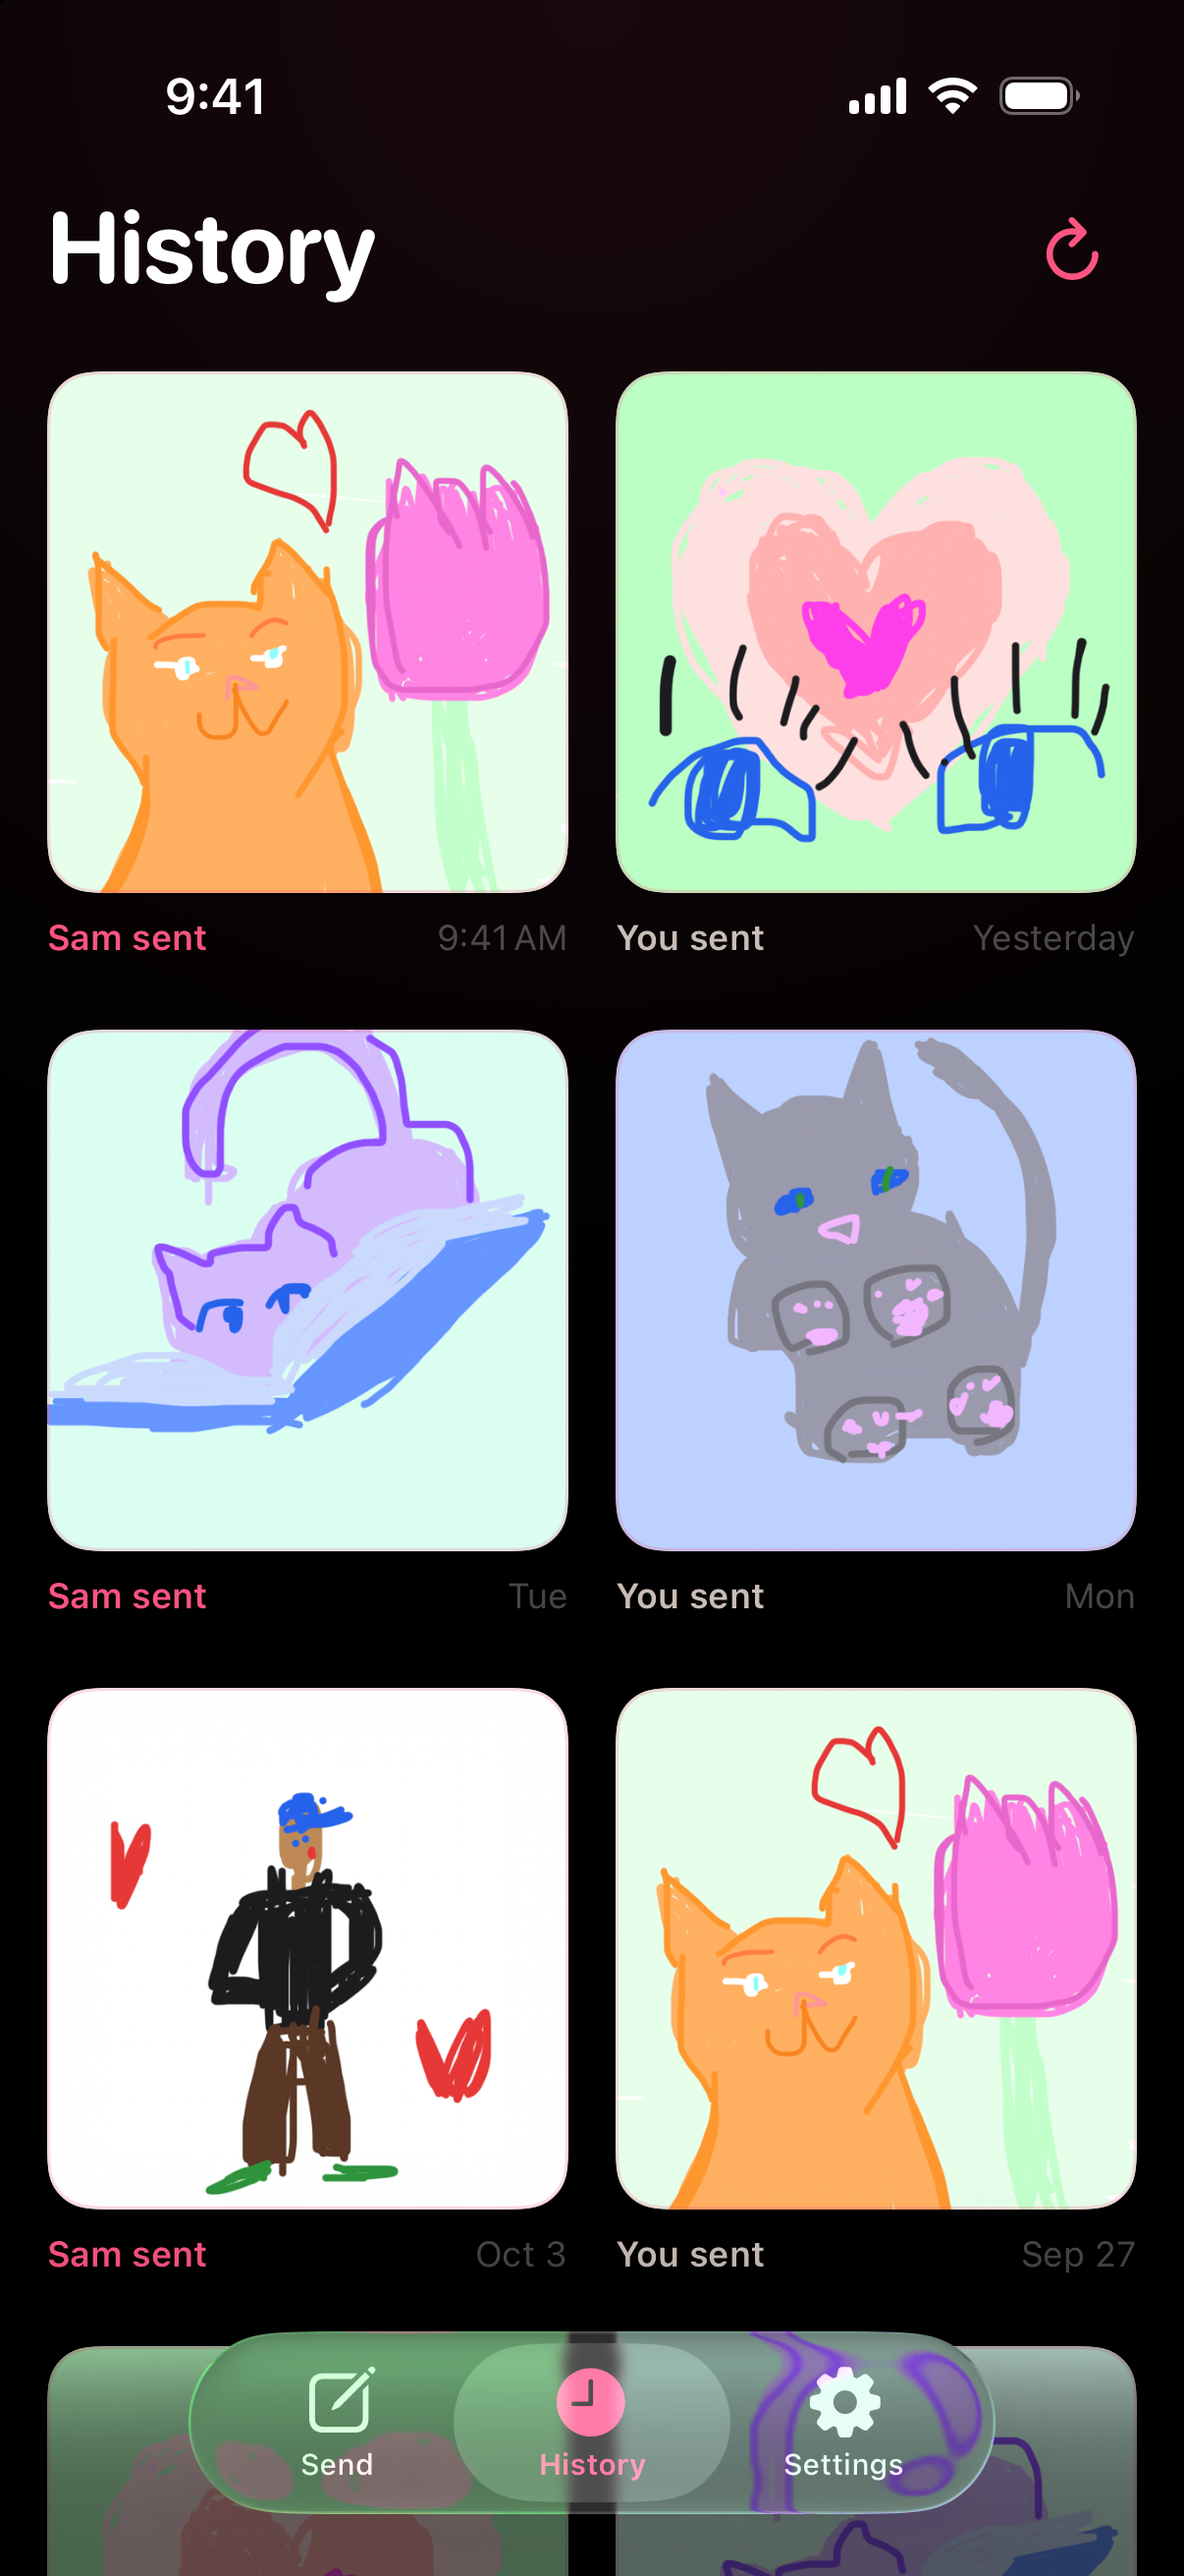
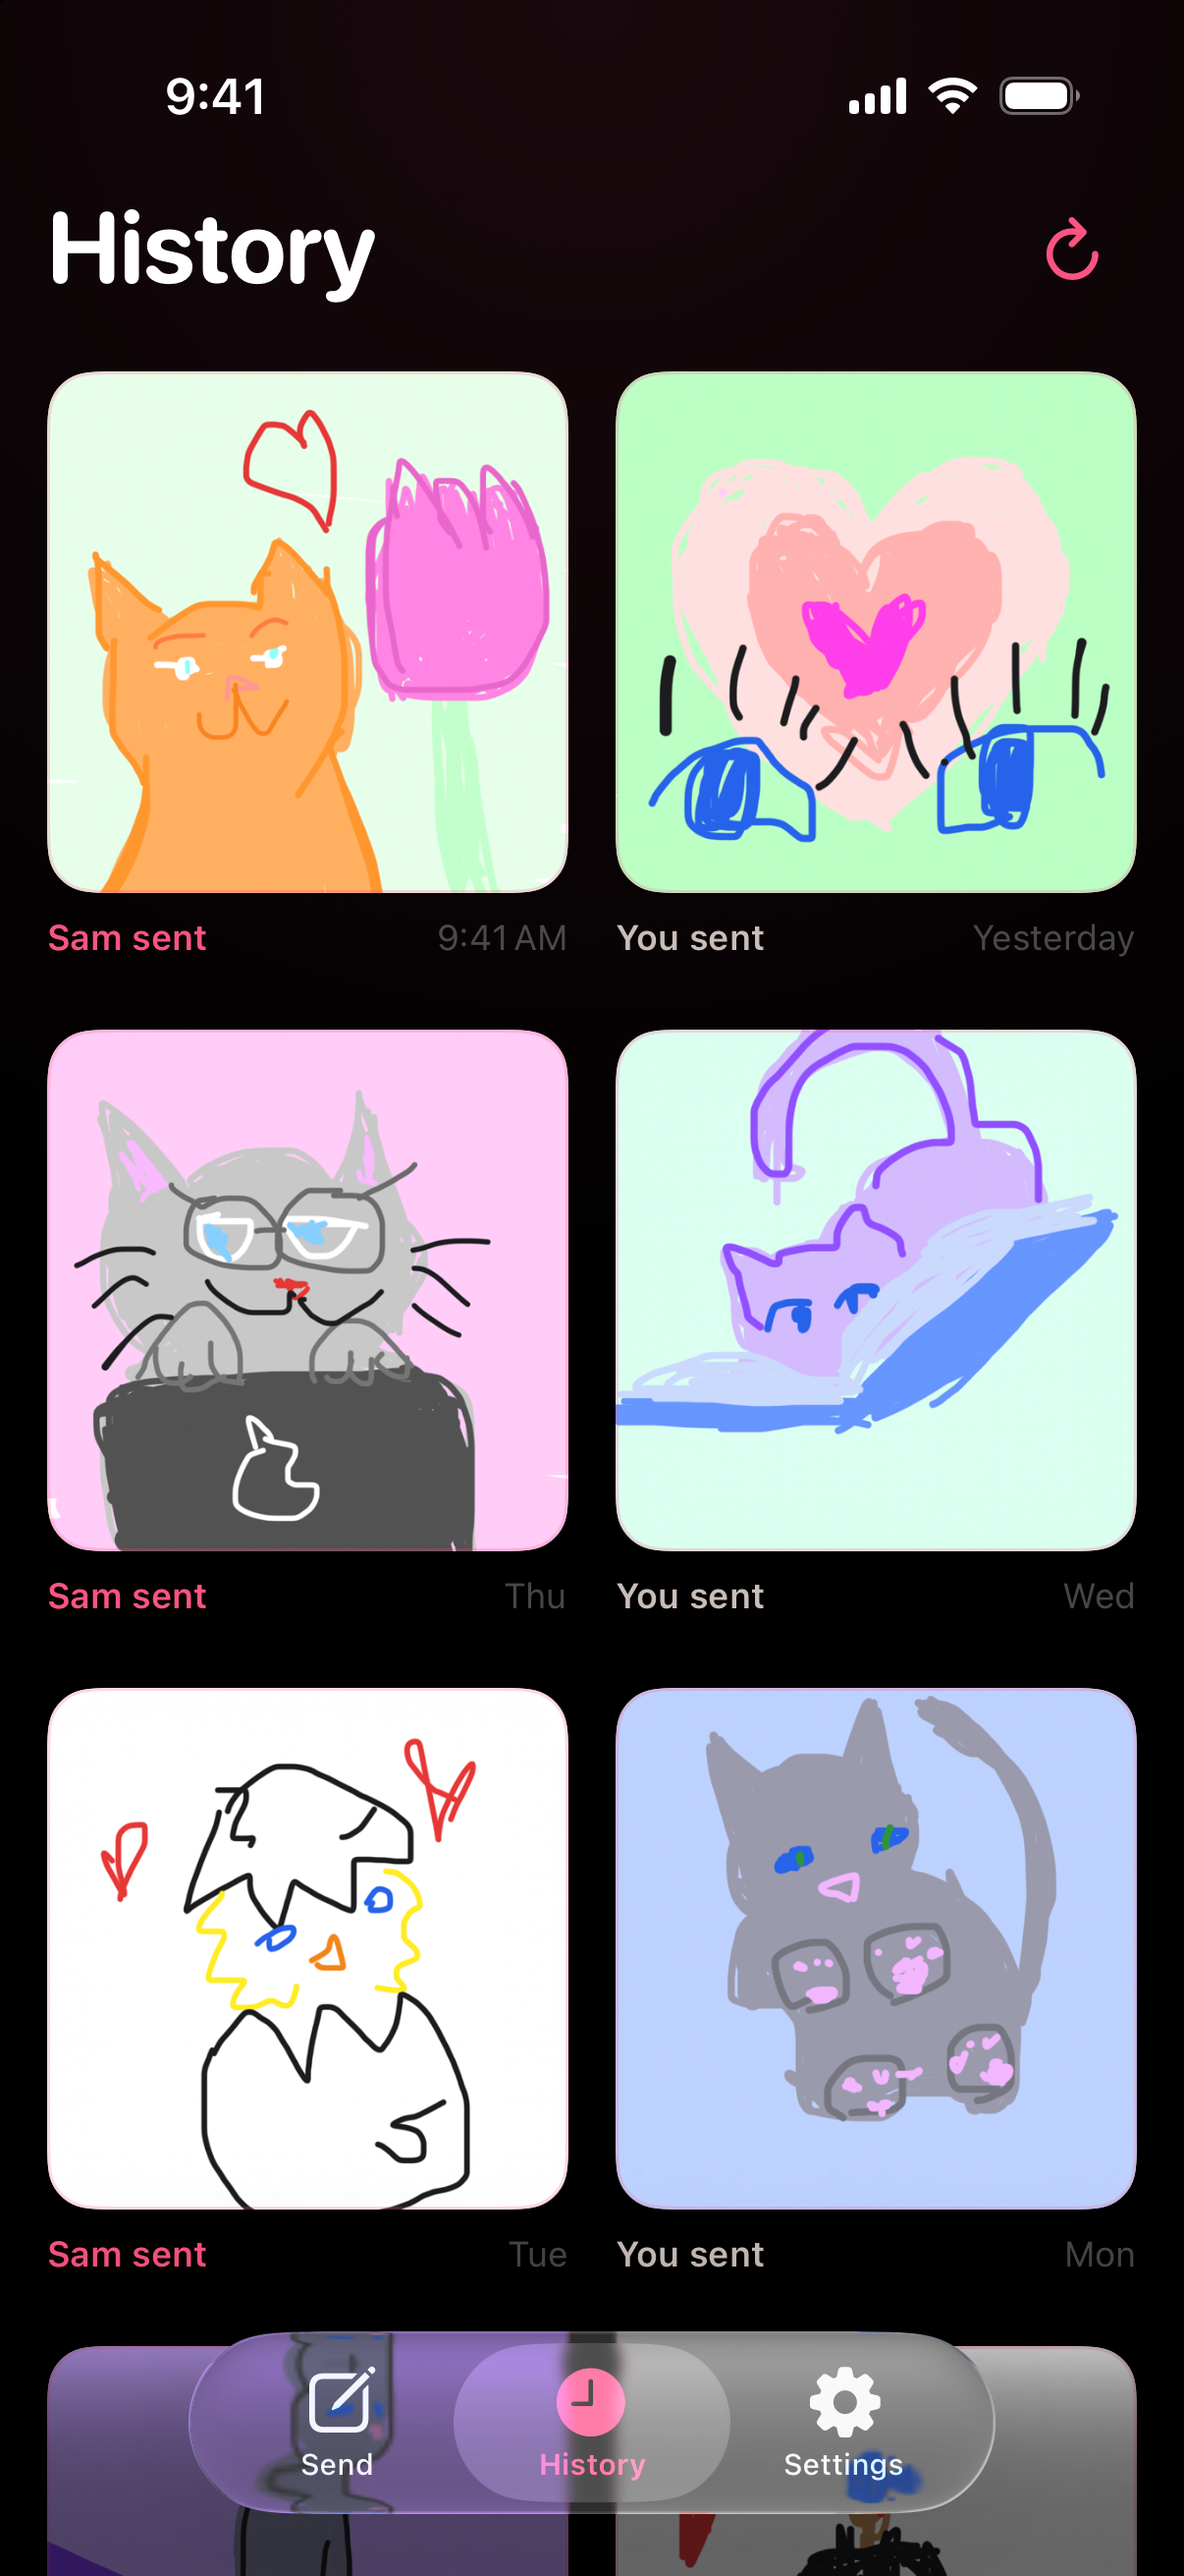
Show each drawing once in the History screenshots
The History wall repeated the orange cat, once as Sam's and once as
yours. The new captures use eight different drawings, each shown once.

Also takes the Next.js block that next dev rewrites in AGENTS.md, so
the tree stays clean.

diff --git a/AGENTS.md b/AGENTS.md
@@ -1,7 +1,11 @@
 <!-- BEGIN:nextjs-agent-rules -->
-# This is NOT the Next.js you know
 
-This version has breaking changes — APIs, conventions, and file structure may all differ from your training data. Read the relevant guide in `node_modules/next/dist/docs/` before writing any code. Heed deprecation notices.
+## This is NOT the Next.js you know
+
+This version has breaking changes — APIs, conventions, and file structure may all differ from your training data. Read the relevant guide in `node_modules/next/dist/docs/` (resolved from this file's directory; in monorepos the `next` package may not be visible from the repo root) before writing any code. Heed deprecation notices.
+
+This block is written and re-added by `next dev` — verify at `node_modules/next/dist/server/lib/generate-agent-files.js`. Removing it from a diff only re-creates the uncommitted change; committing it with your work keeps the tree clean.
+
 <!-- END:nextjs-agent-rules -->
 
 # zeile-website
